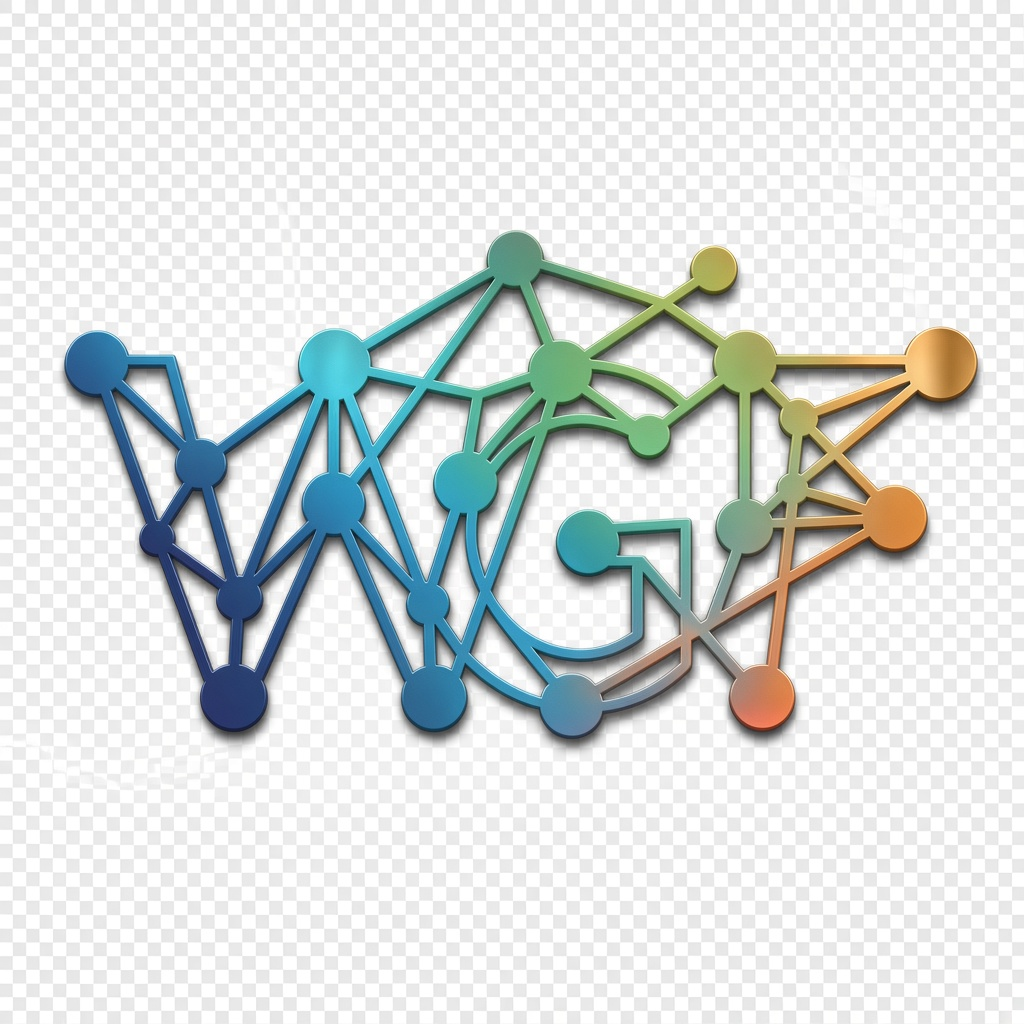
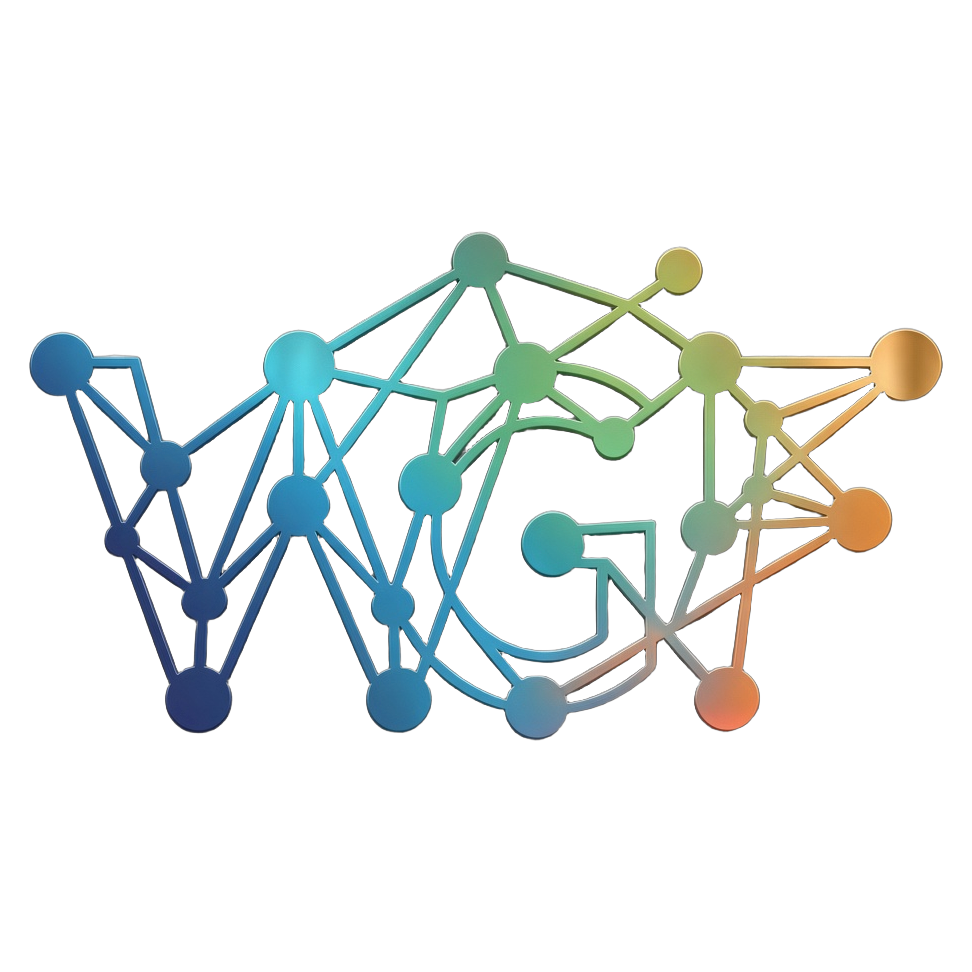
Make WGF symbol truly transparent and use it alone in the header.
Strip the baked-in checkerboard background so only the network mark remains.

diff --git a/src/components/layout/Layout.css b/src/components/layout/Layout.css
@@ -1,6 +1,6 @@
 .logo-symbol {
-  height: 40px;
-  width: 40px;
+  height: 48px;
+  width: 48px;
   object-fit: contain;
   background: transparent;
   filter: drop-shadow(0 4px 10px rgba(0, 242, 254, 0.25));
@@ -12,14 +12,6 @@
   gap: 0.75rem;
   align-items: center;
   flex-shrink: 0;
-}
-
-.logo-container .logo-text {
-  font-size: 1.15rem;
-  font-weight: 800;
-  letter-spacing: -0.5px;
-  color: var(--text-main);
-  text-transform: none;
 }
 
 .header-tools {
@@ -162,12 +154,8 @@
   }
 
   .logo-symbol {
-    height: 34px;
-    width: 34px;
-  }
-
-  .logo-container .logo-text {
-    font-size: 0.95rem;
+    height: 40px;
+    width: 40px;
   }
 
   .site-footer {

diff --git a/src/components/layout/Layout.jsx b/src/components/layout/Layout.jsx
@@ -72,10 +72,7 @@ export default function Layout() {
 
       <header className="main-header glass-effect">
         <Link to="/" className="logo-container" aria-label={company.name}>
-          <img src={company.assets.symbol3d} alt="" className="logo-symbol" />
-          <span className="logo-text">
-            WGF <span className="logo-accent">Technologies</span>
-          </span>
+          <img src={company.assets.symbol3d} alt="WGF Technologies" className="logo-symbol" />
         </Link>
 
         <nav className="main-nav desktop-nav" aria-label="Primary">

diff --git a/scripts/make_symbol_transparent.py b/scripts/make_symbol_transparent.py
@@ -1,0 +1,66 @@
+"""Remove checkerboard/fake-transparency background; keep only the WGF symbol."""
+from pathlib import Path
+import numpy as np
+from PIL import Image, ImageFilter
+
+SRC = Path(r"W:\sites\WGF Tecnologies\public\wgf-symbol-3d.png")
+OUT = Path(r"W:\sites\WGF Tecnologies\public\wgf-symbol-3d.png")
+OUT_BACKUP = Path(r"W:\sites\WGF Tecnologies\public\wgf-symbol-3d-checker.png")
+
+im = Image.open(SRC).convert("RGB")
+# backup original with checker if not already backed up
+if not OUT_BACKUP.exists():
+    im.save(OUT_BACKUP)
+
+arr = np.array(im).astype(np.float32)
+r, g, b = arr[:, :, 0], arr[:, :, 1], arr[:, :, 2]
+mx = np.maximum(np.maximum(r, g), b)
+mn = np.minimum(np.minimum(r, g), b)
+sat = mx - mn
+bright = (r + g + b) / 3.0
+
+# Checkerboard / neutral flat background: low saturation + fairly bright
+bg = (sat < 22) & (bright > 155)
+# also pure-ish whites
+bg |= (bright > 235) & (sat < 35)
+
+# Core logo: colorful strokes
+logo_core = sat > 28
+
+# Expand core so soft drop-shadows near the mark are kept
+core_mask = Image.fromarray((logo_core.astype(np.uint8) * 255), mode="L")
+core_dilated = core_mask.filter(ImageFilter.MaxFilter(9))
+near_core = np.array(core_dilated) > 0
+
+# Keep colorful pixels OR darker pixels that sit next to the logo (shadows)
+shadow = near_core & (bright < 170) & (sat < 40)
+keep = logo_core | shadow
+keep &= ~((sat < 18) & (bright > 190))  # hard reject bright checker leftovers
+
+alpha = np.where(keep, 255, 0).astype(np.uint8)
+
+# Soften silhouette
+alpha_img = Image.fromarray(alpha, mode="L").filter(ImageFilter.GaussianBlur(0.8))
+alpha = np.array(alpha_img)
+
+rgba = np.dstack([arr.astype(np.uint8), alpha])
+out = Image.fromarray(rgba, "RGBA")
+
+bbox = out.getbbox()
+if bbox:
+    x0, y0, x1, y1 = bbox
+    pad = 24
+    x0 = max(0, x0 - pad)
+    y0 = max(0, y0 - pad)
+    x1 = min(out.width, x1 + pad)
+    y1 = min(out.height, y1 + pad)
+    cropped = out.crop((x0, y0, x1, y1))
+else:
+    cropped = out
+
+side = max(cropped.size)
+canvas = Image.new("RGBA", (side, side), (0, 0, 0, 0))
+canvas.paste(cropped, ((side - cropped.width) // 2, (side - cropped.height) // 2), cropped)
+canvas.save(OUT, optimize=True)
+print("saved", OUT, canvas.size, "mode", canvas.mode)
+print("transparent pct", float((np.array(canvas)[:, :, 3] < 5).mean() * 100))
